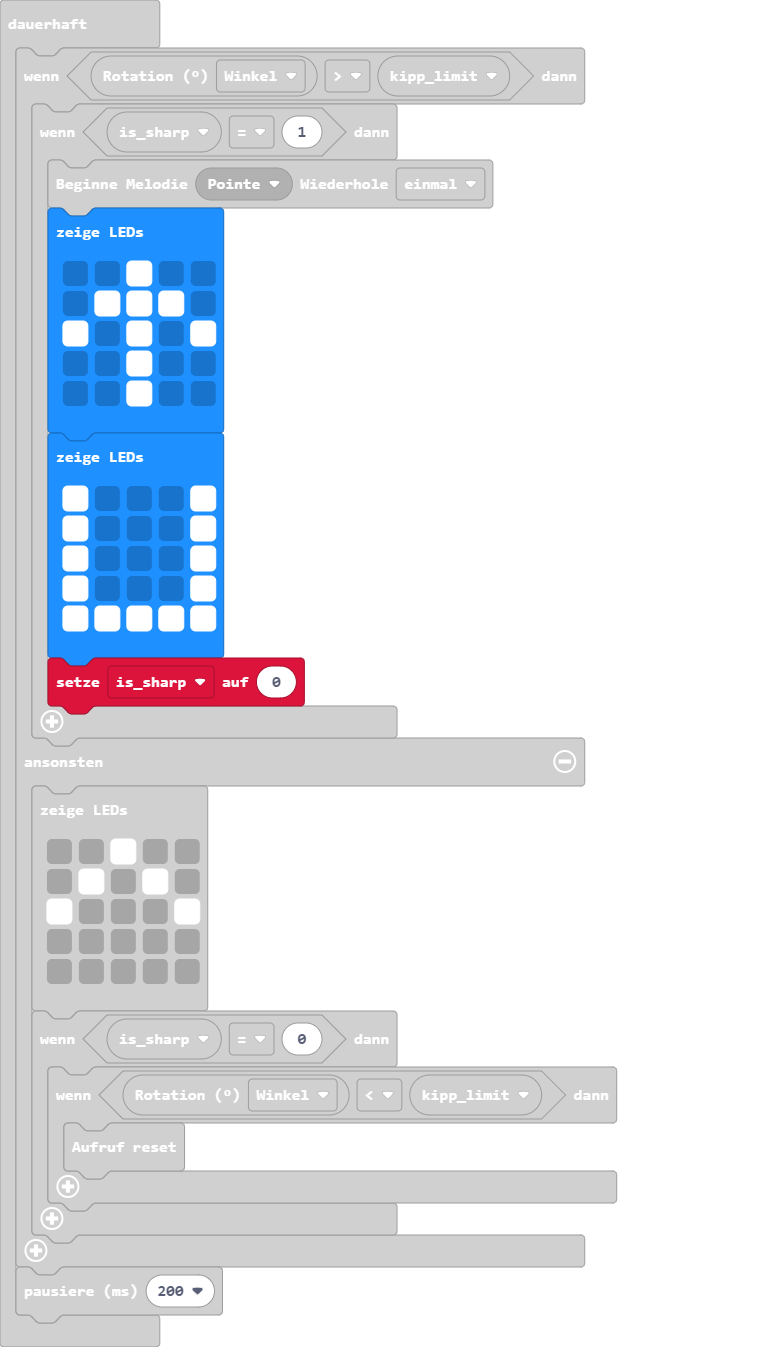
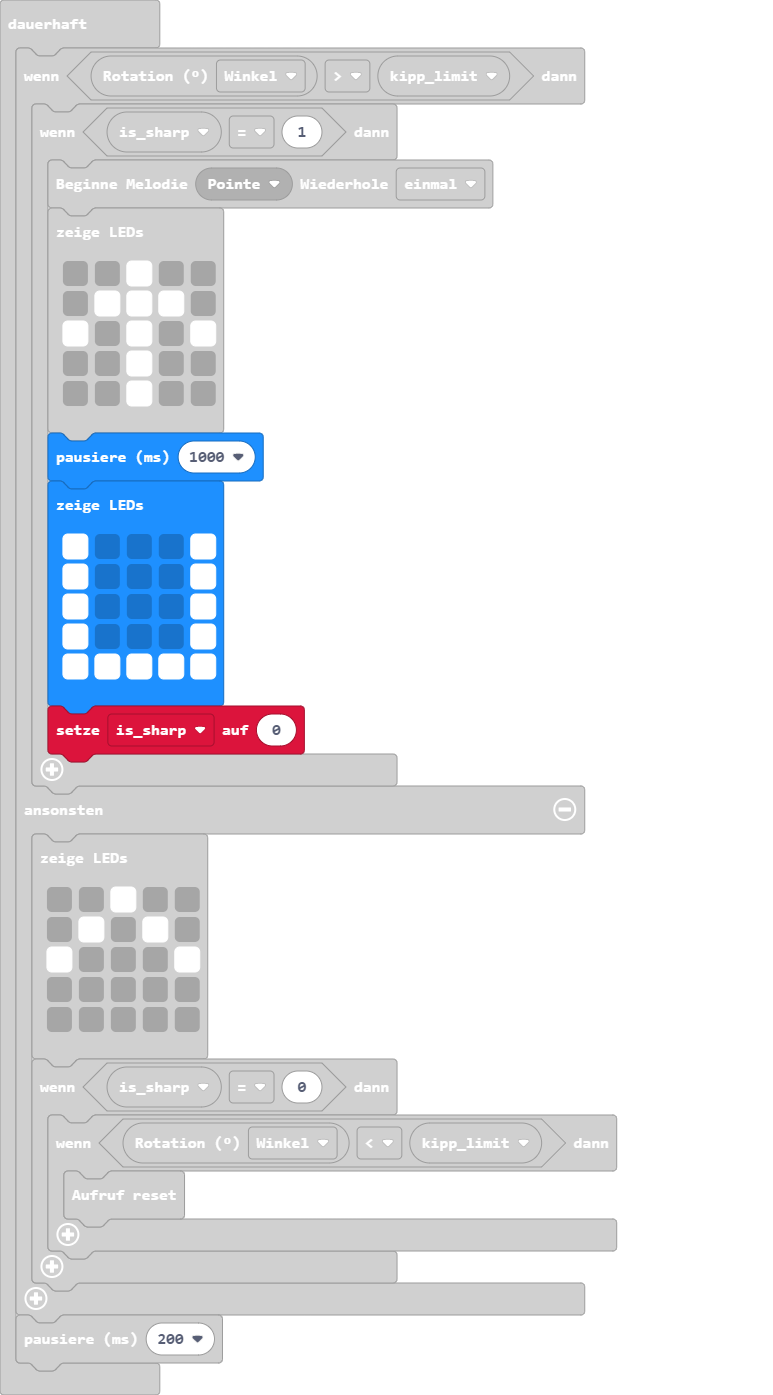
Aktualisiere main.blocks, main.ts

Changed region(s): [[0.031, 0.0312, 0.8072, 0.9666]]

diff --git a/main.ts b/main.ts
@@ -19,6 +19,7 @@ basic.forever(function () {
                 . . # . .
                 . . # . .
                 `)
+            basic.pause(1000)
             basic.showLeds(`
                 # . . . #
                 # . . . #
